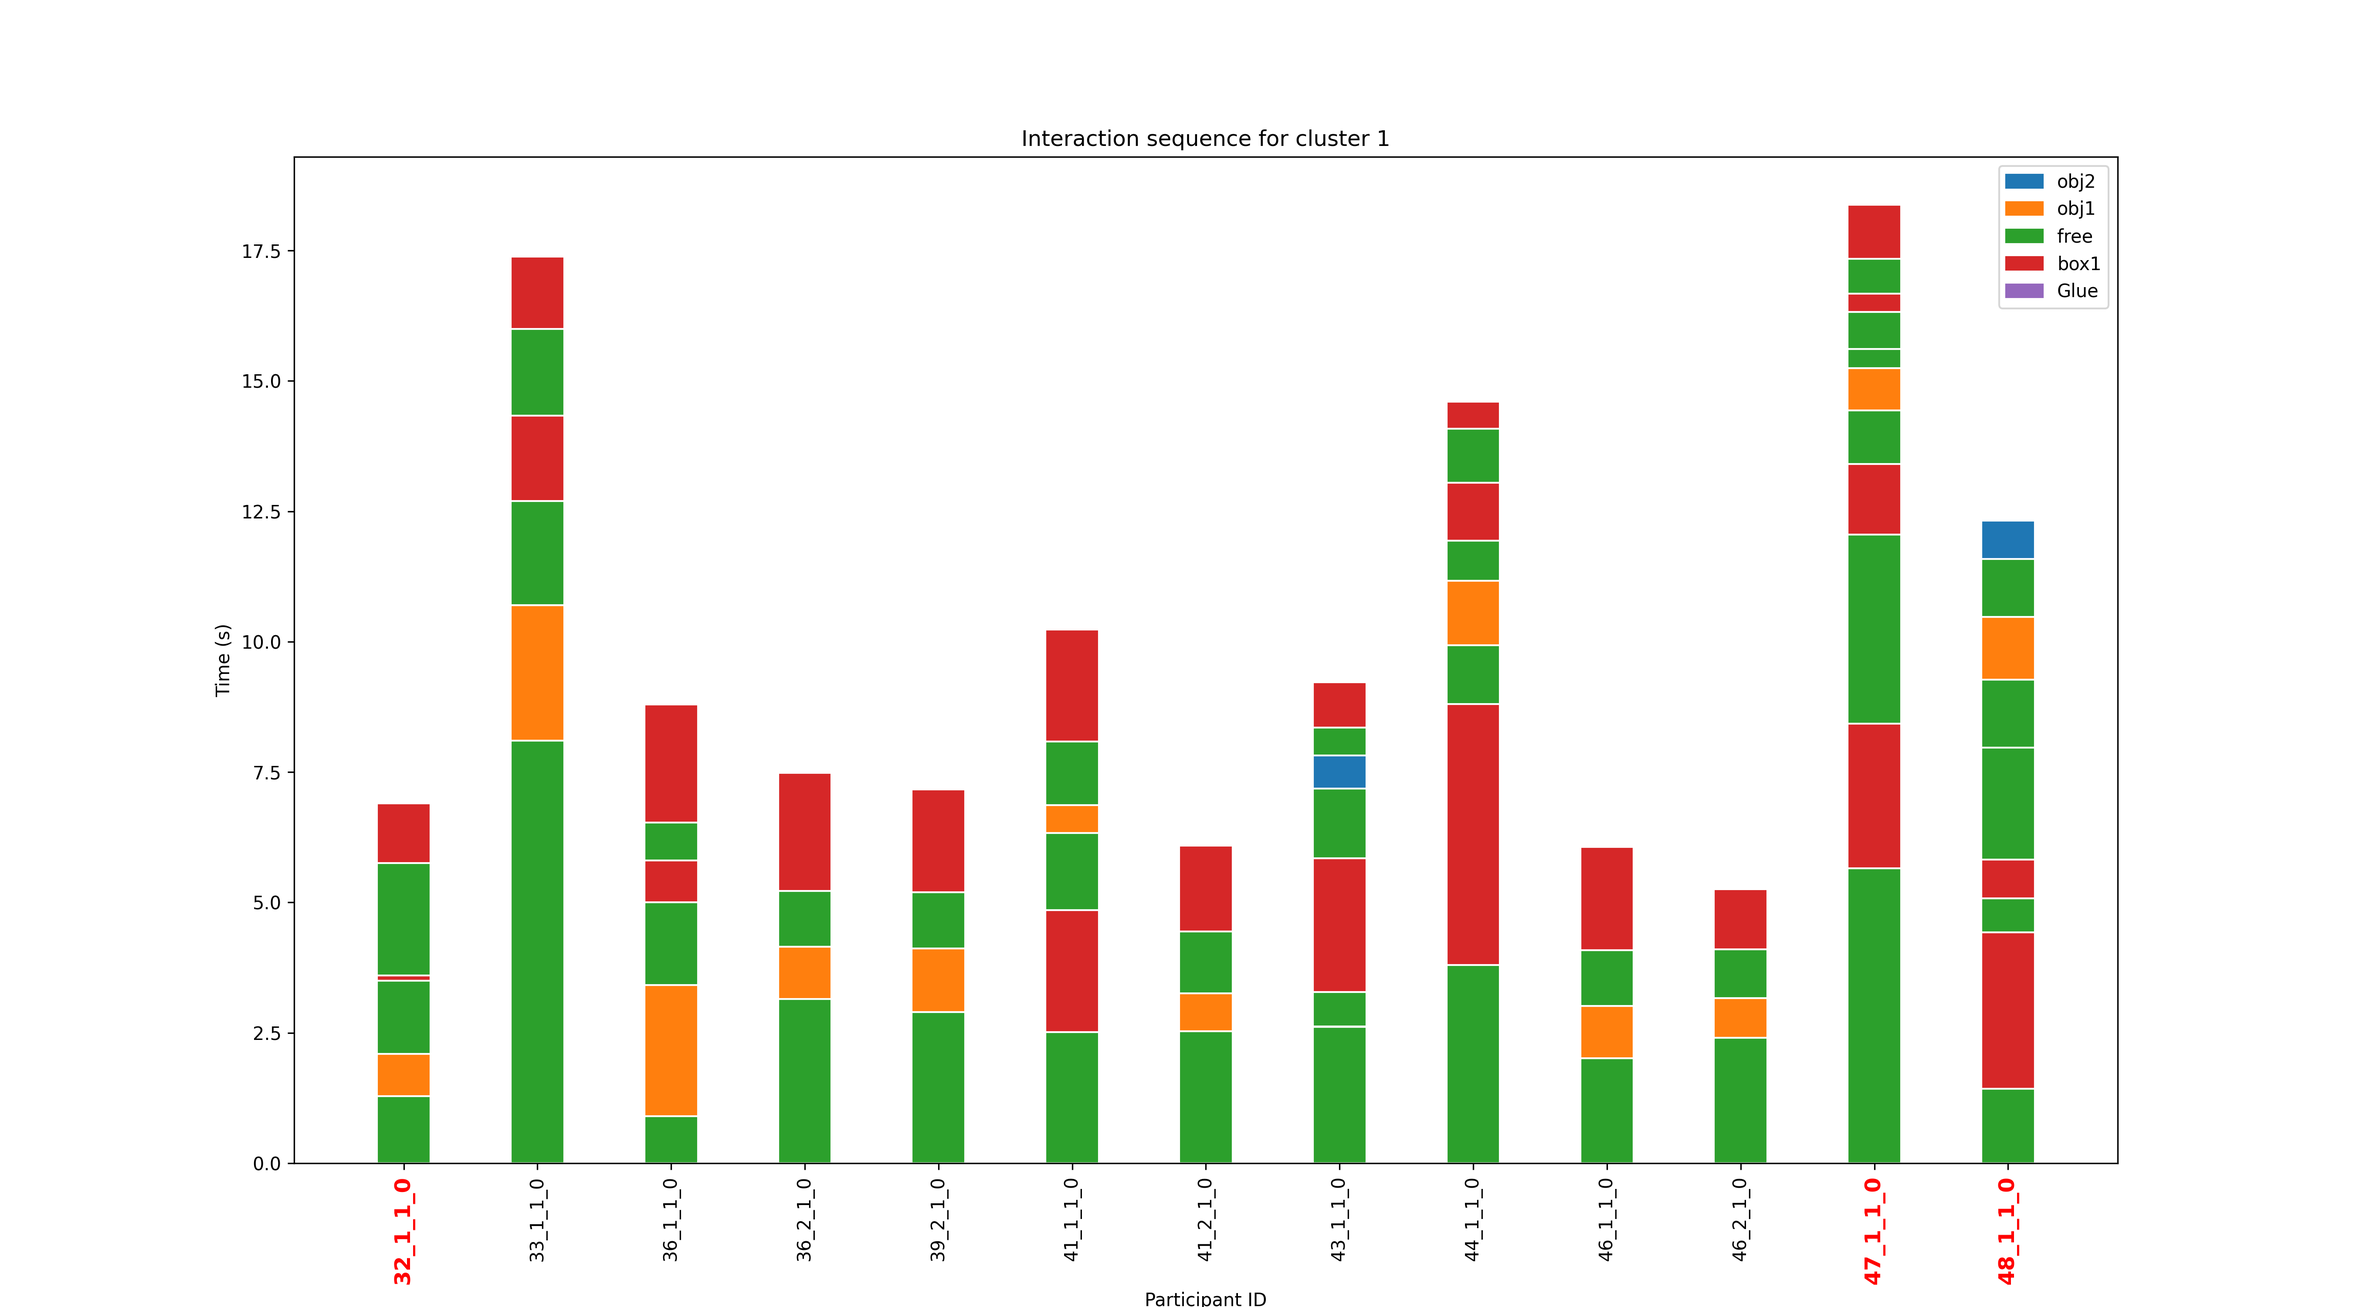
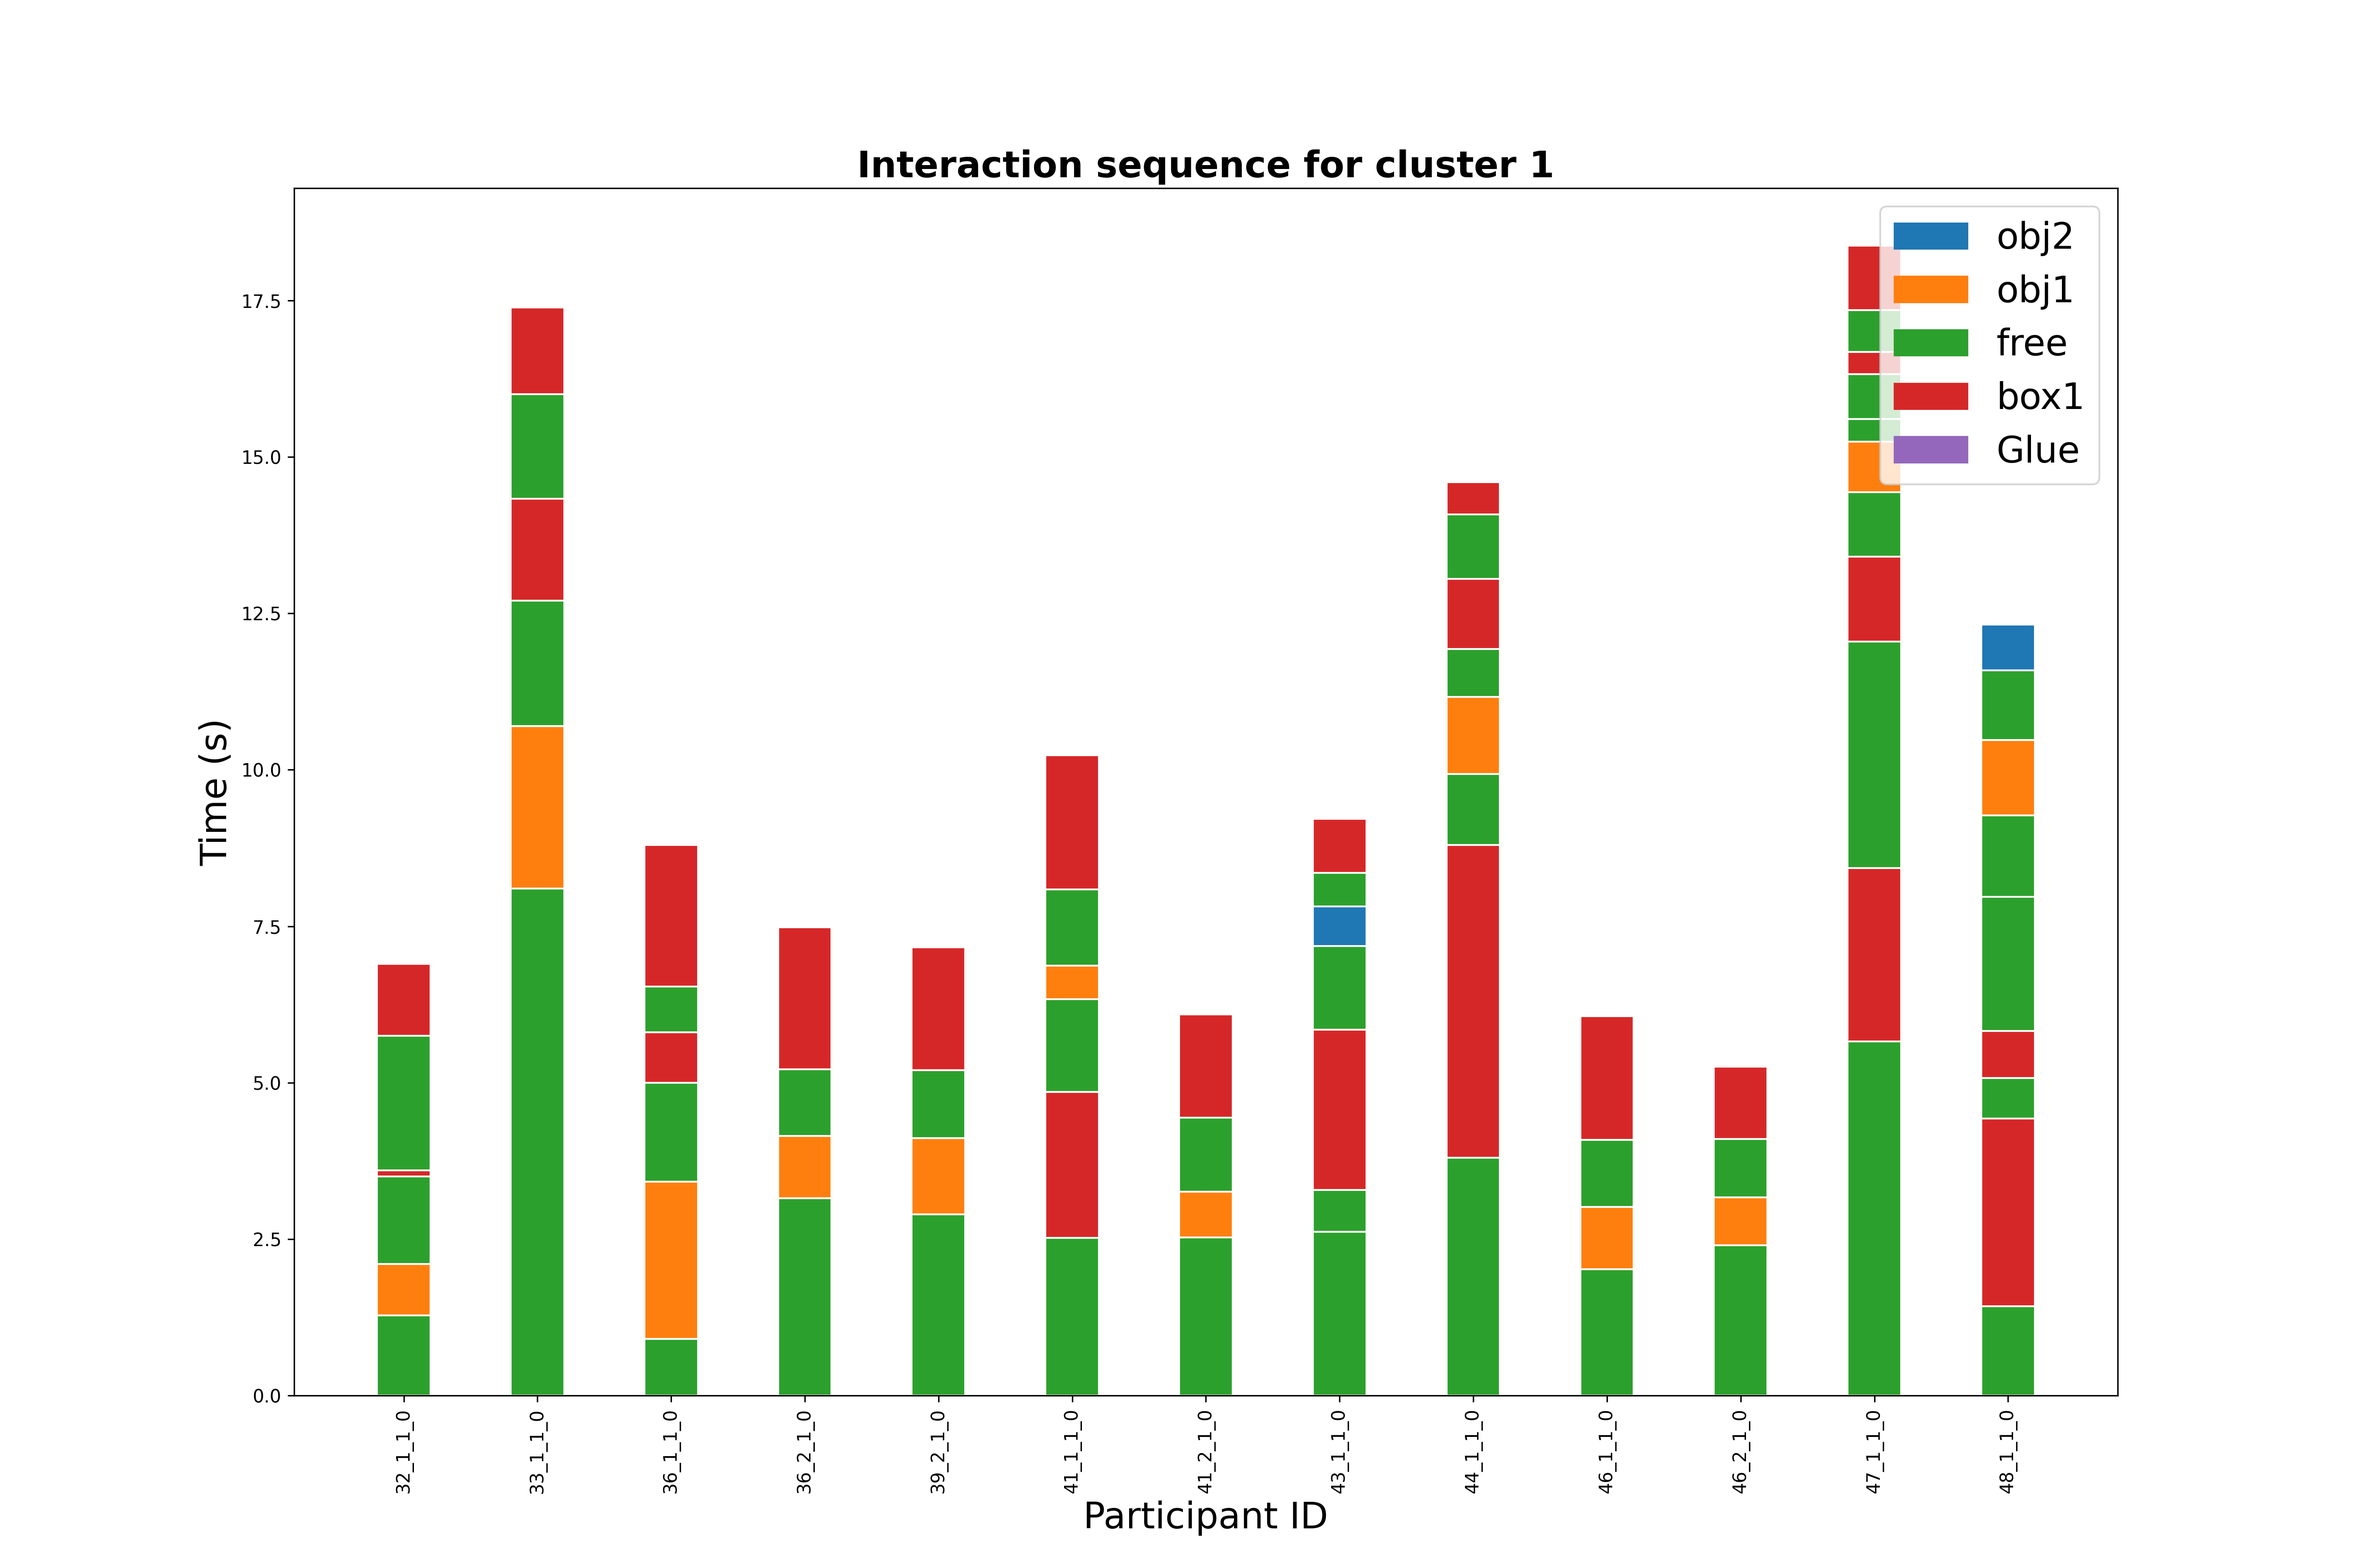
correction

diff --git a/SRC/cluster.py b/SRC/cluster.py
@@ -246,7 +246,12 @@ def stacked_barplot_interaction(interaction_lists, ids, cluster_id, puzzleNumber
     color_map = {label: i for i, label in enumerate(unique_labels)}
     legend_patches = [mpatches.Patch(color=plt.cm.tab10(color_map[label]), label=label) for label in unique_labels]
 
-    plt.figure(figsize=(len(ids)+5, 10))
+    plt.figure(figsize=(len(ids)+5, 12))
+    #set the legend and title font size to 20 and bold
+    plt.rcParams['legend.fontsize'] = 20
+    plt.rcParams['axes.titlesize'] = 20
+    plt.rcParams['axes.titleweight'] = 'bold'
+
     for j in range(len(interaction_lists)):
         sequence = interaction_lists[j]
         # Separate the string elements and float elements into separate lists
@@ -264,20 +269,20 @@ def stacked_barplot_interaction(interaction_lists, ids, cluster_id, puzzleNumber
         for i in range(1, len(lengths)):
             plt.bar(j, lengths[i], bottom=sum(lengths[:i]), color=colors[i],edgecolor='white', width=0.4 )
           
-        for index, label in enumerate(plt.gca().get_xticklabels()):
-            label.set_fontweight('normal')
-            if ids[index] == bold_label:
-                label.set_fontweight('bold')
-                label.set_fontsize(12)
-                label.set_color('red')
-                break
+        # for index, label in enumerate(plt.gca().get_xticklabels()):
+        #     label.set_fontweight('normal')
+        #     if ids[index] == bold_label:
+        #         label.set_fontweight('bold')
+        #         label.set_fontsize(12)
+        #         label.set_color('red')
+        #         break
 
         plt.xticks(range(len(ids)), ids, rotation=90)
-        plt.ylabel('Time (s)')
-        plt.xlabel('Participant ID')
-        plt.title(f'Interaction sequence for cluster {cluster_id}')
+        plt.ylabel('Time (s)', fontsize=20)
+        plt.xlabel('Participant ID', fontsize=20)
+        plt.title(f'Interaction sequence for cluster {cluster_id}', fontsize=20)
 
-    plt.legend(handles=legend_patches)
+    plt.legend(handles=legend_patches, loc='upper right')
 
 def hierarchyCluster(numCluster,puzzleNumber, sequence_type):
 
@@ -362,12 +367,12 @@ def hierarchyCluster(numCluster,puzzleNumber, sequence_type):
 # numCluster = int(input("Enter the number of clusters: "))
 # sequence_type = input("Enter the sequence type: ")
 numCluster = 3
-for puzzleNumber in [2,3,4]:
-    sequence_type = "color-trajectory"
-    hierarchyCluster(numCluster,puzzleNumber, sequence_type)
-    print("--- %s seconds ---" % (time.time() - start_time))
+# for puzzleNumber in [2]:
+#     sequence_type = "color-trajectory"
+#     hierarchyCluster(numCluster,puzzleNumber, sequence_type)
+#     print("--- %s seconds ---" % (time.time() - start_time))
 
-for puzzleNumber in [1,6,5]:
+for puzzleNumber in [1]:
     sequence_type = "color"
     hierarchyCluster(numCluster,puzzleNumber, sequence_type)
     print("--- %s seconds ---" % (time.time() - start_time))
